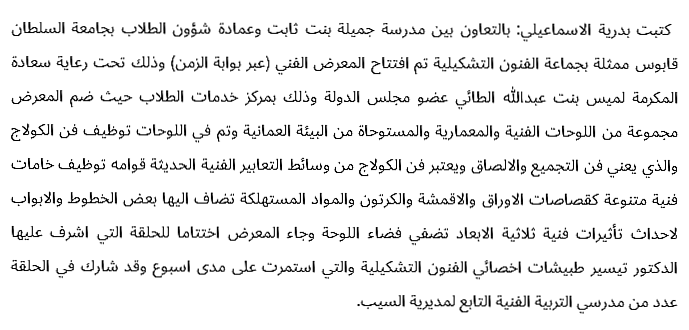
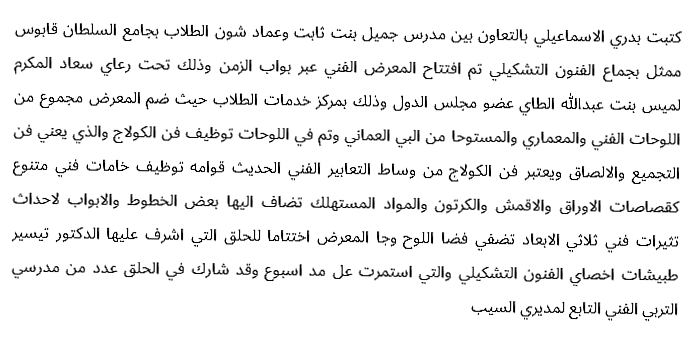
fixed word segmentation and some adjustments in character segmentation

diff --git a/skeleton.py b/skeleton.py
@@ -16,6 +16,7 @@ from scipy import stats
 # reading the image
 img = io.imread("scanned\capr2.png")
 
+#
 # img = io.imread("scanned\csep1635.png")
 
 # skew correct with bounding rect
@@ -32,13 +33,13 @@ lines_segmented = corrected.copy()
 lines_segmented[lines_indices] = 0.5
 
 # images into words
-separators = words_segmentation(corrected, lines_indices)
+separators = words_segmentation(binary, lines_indices)
 # drawing rectangles around words
-words = binary.copy()
+wordsRects = binary.copy()
 for i in range(len(lines_indices) - 1):
     for j in range(len(separators[i]) - 1):
-        words = cv2.rectangle(
-            words,
+        wordsRects = cv2.rectangle(
+            wordsRects,
             (separators[i][j], lines_indices[i]),
             (separators[i][j + 1], lines_indices[i + 1]),
             0.5,
@@ -48,22 +49,7 @@ for i in range(len(lines_indices) - 1):
 
 # separating words using indices
 word = binary[
-    # lines_indices[2] : lines_indices[3],separators[2][4] : separators[2][5]
-    # lines_indices[7] : lines_indices[8],separators[7][2] : separators[7][3]
-    # lines_indices[0] : lines_indices[1],separators[0][1] : separators[0][2],
-    # lines_indices[5] : lines_indices[6],separators[5][7] : separators[5][8]
-    # lines_indices[1] : lines_indices[2],separators[1][9] : separators[1][10],
-    # lines_indices[1] : lines_indices[2],separators[1][12] : separators[1][13],
-    # lines_indices[3] : lines_indices[4],separators[3][6] : separators[3][7],
-    # lines_indices[1] : lines_indices[2],separators[1][8] : separators[1][9],
-    # lines_indices[4] : lines_indices[5],separators[4][9] : separators[4][10],
-    # lines_indices[0] : lines_indices[1],separators[0][8] : separators[0][9],
-    # lines_indices[0] : lines_indices[1],separators[0][0] : separators[0][1],
-    # lines_indices[1] : lines_indices[2],separators[1][3] : separators[1][4],
-    # lines_indices[2] : lines_indices[3],separators[2][9] : separators[2][10],
-    lines_indices[1] : lines_indices[2],
-    separators[1][0] : separators[1][1],
-    # lines_indices[2] : lines_indices[3],separators[2][4] : separators[2][5],
+    lines_indices[0] : lines_indices[1], separators[0][1] : separators[0][2],
 ]
 
 # character segmentation for a word
@@ -92,56 +78,83 @@ separationIndices = separationIndices.reshape(-1, 2)
 # getting cut indices
 vp = np.sum(wordSkeleton, axis=0)
 mvf = stats.mode(vp[vp != 0]).mode[0]
-
-
+vpAbove = np.sum(wordSkeleton[:baselineIndex, :])
+vpBelow = np.sum(wordSkeleton[baselineIndex + 1 :, :])
 cutIndices = []
+cutIndices.append(0)
 for i in range(separationIndices.shape[0] - 1):
     midRegion = separationIndices[i, 1] + int(
         (separationIndices[i + 1, 0] - separationIndices[i, 1]) / 2
     )
     while vp[midRegion] > mvf:
         midRegion += 1
-    if len(cutIndices) == 0:
-        cutIndices.append(midRegion)
+
     # 3ashan lamma el7oroof beyet2esem menha 7etta soghayara keda lwahdaha
-    elif midRegion - cutIndices[-1] > 2:
-        cutIndices.append(midRegion)
+    if np.sum(wordSkeleton[:, cutIndices[-1] : midRegion]) > 3:
+        if midRegion - cutIndices[-1] > 2:
+            cutIndices.append(midRegion)
 
-# strokes detection
-cutIndices.insert(0, 0)
-cutIndices.append(wordSkeleton.shape[1] - 1)
+#
+if np.sum(wordSkeleton[:, cutIndices[-1] : wordSkeleton.shape[1]]) > 3:
+    cutIndices.append(wordSkeleton.shape[1] - 1)
+
 cutIndices = list(dict.fromkeys(cutIndices))
-baselineIndex = np.argmax(np.sum(wordSkeleton, axis=1))
+# strokes detection
 
+# baselineIndex = np.argmax(np.sum(wordSkeleton, axis=1))
+# using line to get line index not word
+# baselineIndex = np.argmax(
+#     np.sum(binary[lines_indices[0] : lines_indices[1], :], axis=1)
+# )
+print(baselineIndex)
 strokesIndices = []
 length = len(cutIndices) - 1
-for i in range(length):
-    # to remove el7etat elfadya w el7etat elsoghayara el me2atta3a
-    if np.sum(wordSkeleton[:, cutIndices[i] : cutIndices[i + 1]]) < 3:
-        cutIndices.pop(i + 1)
-        length -= 1
-    if i + 1 >= length:
-        break
 
+for i in range(length):
     segment = wordSkeleton[:, cutIndices[i] : cutIndices[i + 1]]
     sumTopProjection = (np.sum(segment[0:baselineIndex, :], axis=1)).sum()
     sumBottomProjection = (np.sum(segment[baselineIndex + 1 :, :], axis=1)).sum()
+
     if sumTopProjection > sumBottomProjection:
         vp = np.sum(segment[:baselineIndex, :], axis=0)
         strokesHeight = np.max(vp)
-        if strokesHeight < 0.25 * baselineIndex:
+        print(cutIndices[i], "passed condition1")
+        h = np.sort(np.sum(segment, axis=1))[::-1][0]
+
+        if strokesHeight < h:
+            print(cutIndices[i], "passed condition2 strokes Height=", strokesHeight)
             hp = np.sum(segment[:baselineIndex, :], axis=1)
             hp = hp[hp != 0]
 
             if stats.mode(hp).mode[0] == mvf:
-
+                print(cutIndices[i], "passed condition3")
                 strokesIndices.append(i)
-    if i == length - 1:
-        break
+        elif len(strokesIndices) >= 2:
+            if i - strokesIndices[-1] == 1 and i - strokesIndices[-2] == 2:
+                if strokesHeight < 2 * h:
+                    print(cutIndices[i], "passed condition4")
+                    hp = np.sum(segment[:baselineIndex, :], axis=1)
+                    hp = hp[hp != 0]
+
+                    if stats.mode(hp).mode[0] == mvf:
+                        print(cutIndices[i], "passed condition5")
+                        strokesIndices.append(i)
+
+# check that last letter is not split
+
+lastSegment = wordSkeleton[:, cutIndices[0] : cutIndices[1]]
+if (np.sum(lastSegment[baselineIndex + 1 :, :], axis=1)).sum() > (
+    np.sum(lastSegment[0:baselineIndex, :], axis=1)
+).sum():
+
+    cutIndices.pop(1)
+
+# make seen one letter instead of 3
 
 # print(len(strokesIndices))
-# if len(strokesIndices) > 3:
+# if len(strokesIndices) > 2:
 #     for i in range(len(strokesIndices) - 2):
+#         print(i)
 #         if (
 #             strokesIndices[i + 2] - strokesIndices[i + 1] == 1
 #             and strokesIndices[i + 1] - strokesIndices[i] == 1
@@ -149,8 +162,7 @@ for i in range(length):
 #             cutIndices.pop(strokesIndices[i + 2])
 #             cutIndices.pop(strokesIndices[i + 1])
 
-#             strokesIndices.pop(i + 2)
-#             strokesIndices.pop(i + 1)
+#             i += 2
 
 
 printWord = word.copy()
@@ -164,7 +176,7 @@ wordSkeleton[:, strokes] = 0.3
 
 # viewing the images
 viewer = CollectionViewer(
-    [img, 1 - corrected, lines_segmented, words, printWord, word, wordSkeleton]
+    [img, 1 - corrected, lines_segmented, wordsRects, printWord, word, wordSkeleton]
 )
 viewer.show()
 

diff --git a/preprocessing.py b/preprocessing.py
@@ -89,7 +89,7 @@ def words_segmentation(img, lines):
     for i in range(len(lines) - 1):
         line = img[lines[i] : lines[i + 1], :]
         projection = np.sum(line, axis=0)
-        projection = np.convolve(projection, np.array([1, 1]), "same")
+        projection = np.convolve(projection, np.array([1, 1, 1]), "same")
         indices = segments_indices(projection)
 
         words_rects.append(indices)
